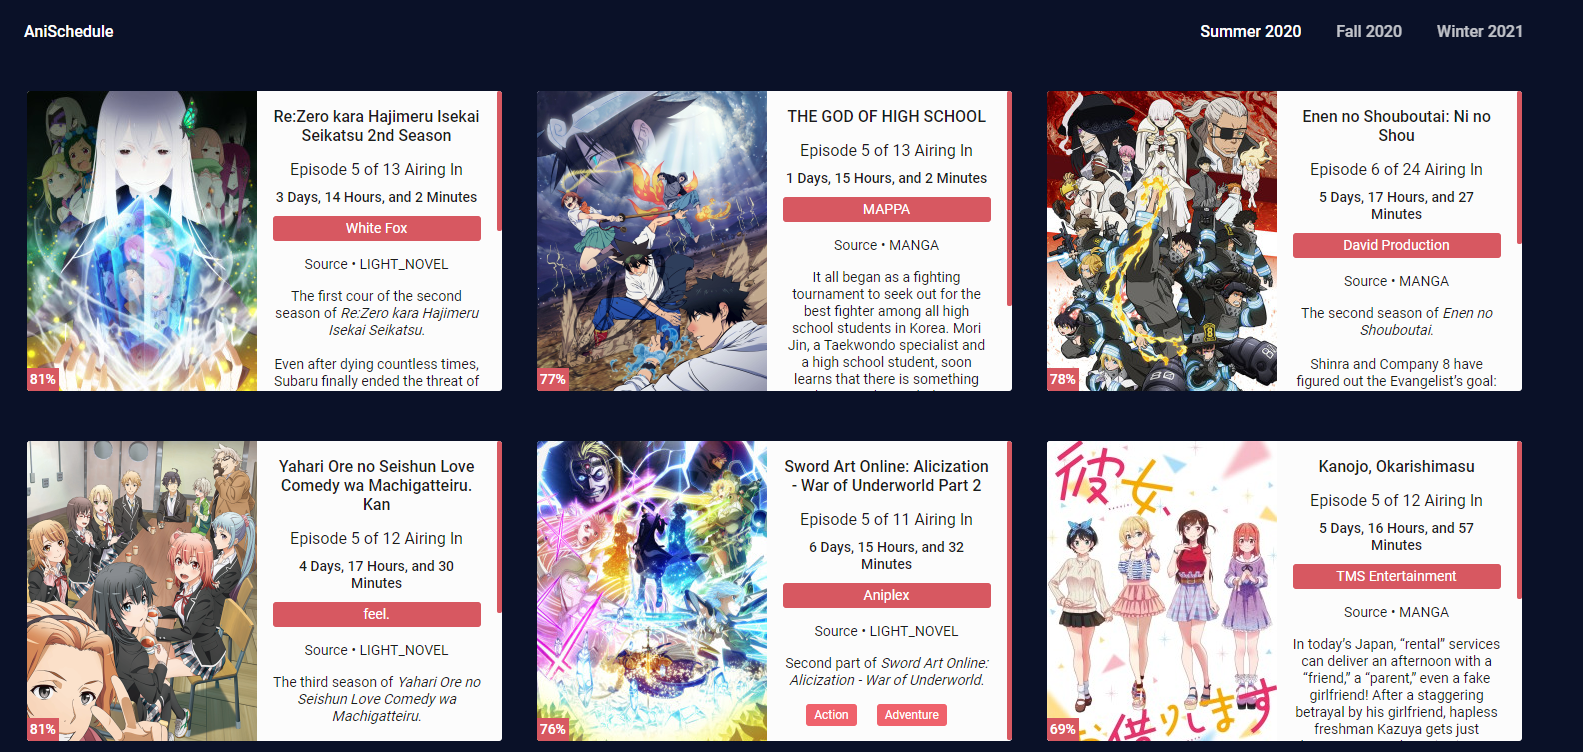
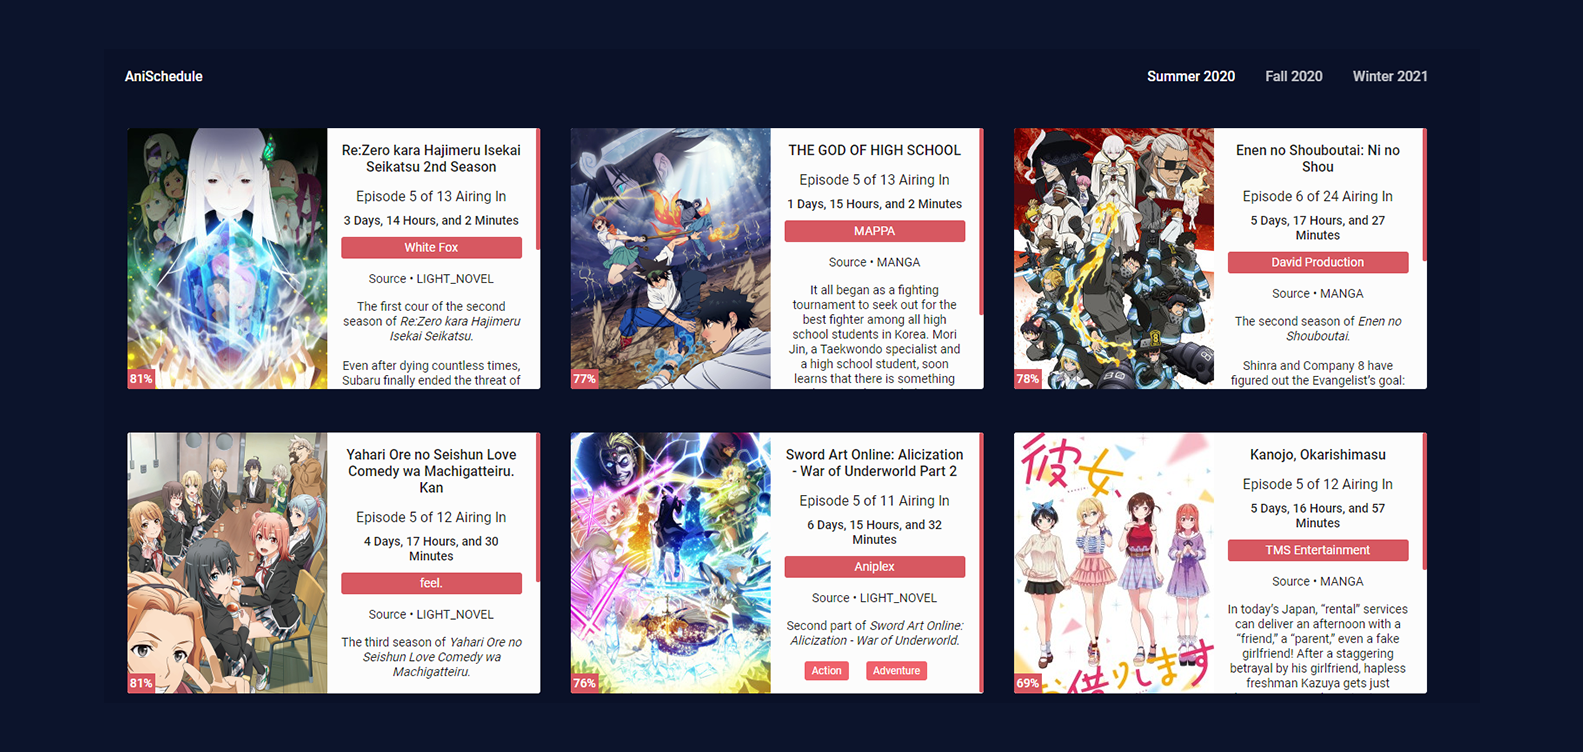
Increased font sizes and changed images.

diff --git a/css/main.css b/css/main.css
@@ -387,12 +387,12 @@ header .social-icons .fa-bars {
     border-radius: 2px;
   }
   .project-content .project-holder .project-maincard .project-body .cardtitle {
-    font-size: 12px;
+    font-size: 16px;
     font-weight: 500;
     letter-spacing: 1px;
   }
   .project-content .project-holder .project-maincard .project-body .description {
-    font-size: 10px;
+    font-size: 14px;
     margin-top: 10px;
     letter-spacing: 1px;
   }
@@ -417,6 +417,10 @@ header .social-icons .fa-bars {
 }
 
 @media (max-width: 768px) {
+  .project-content .project-holder .project-maincard {
+    margin-right: 0px;
+  }
+
   header .activew {
     display: -webkit-box;
     display: -ms-flexbox;
@@ -485,6 +489,8 @@ header .social-icons .fa-bars {
     margin: 0 20px 10px 0;
     letter-spacing: 1px;
   }
+
+
 }
 
 @media (max-width: 425px) {
